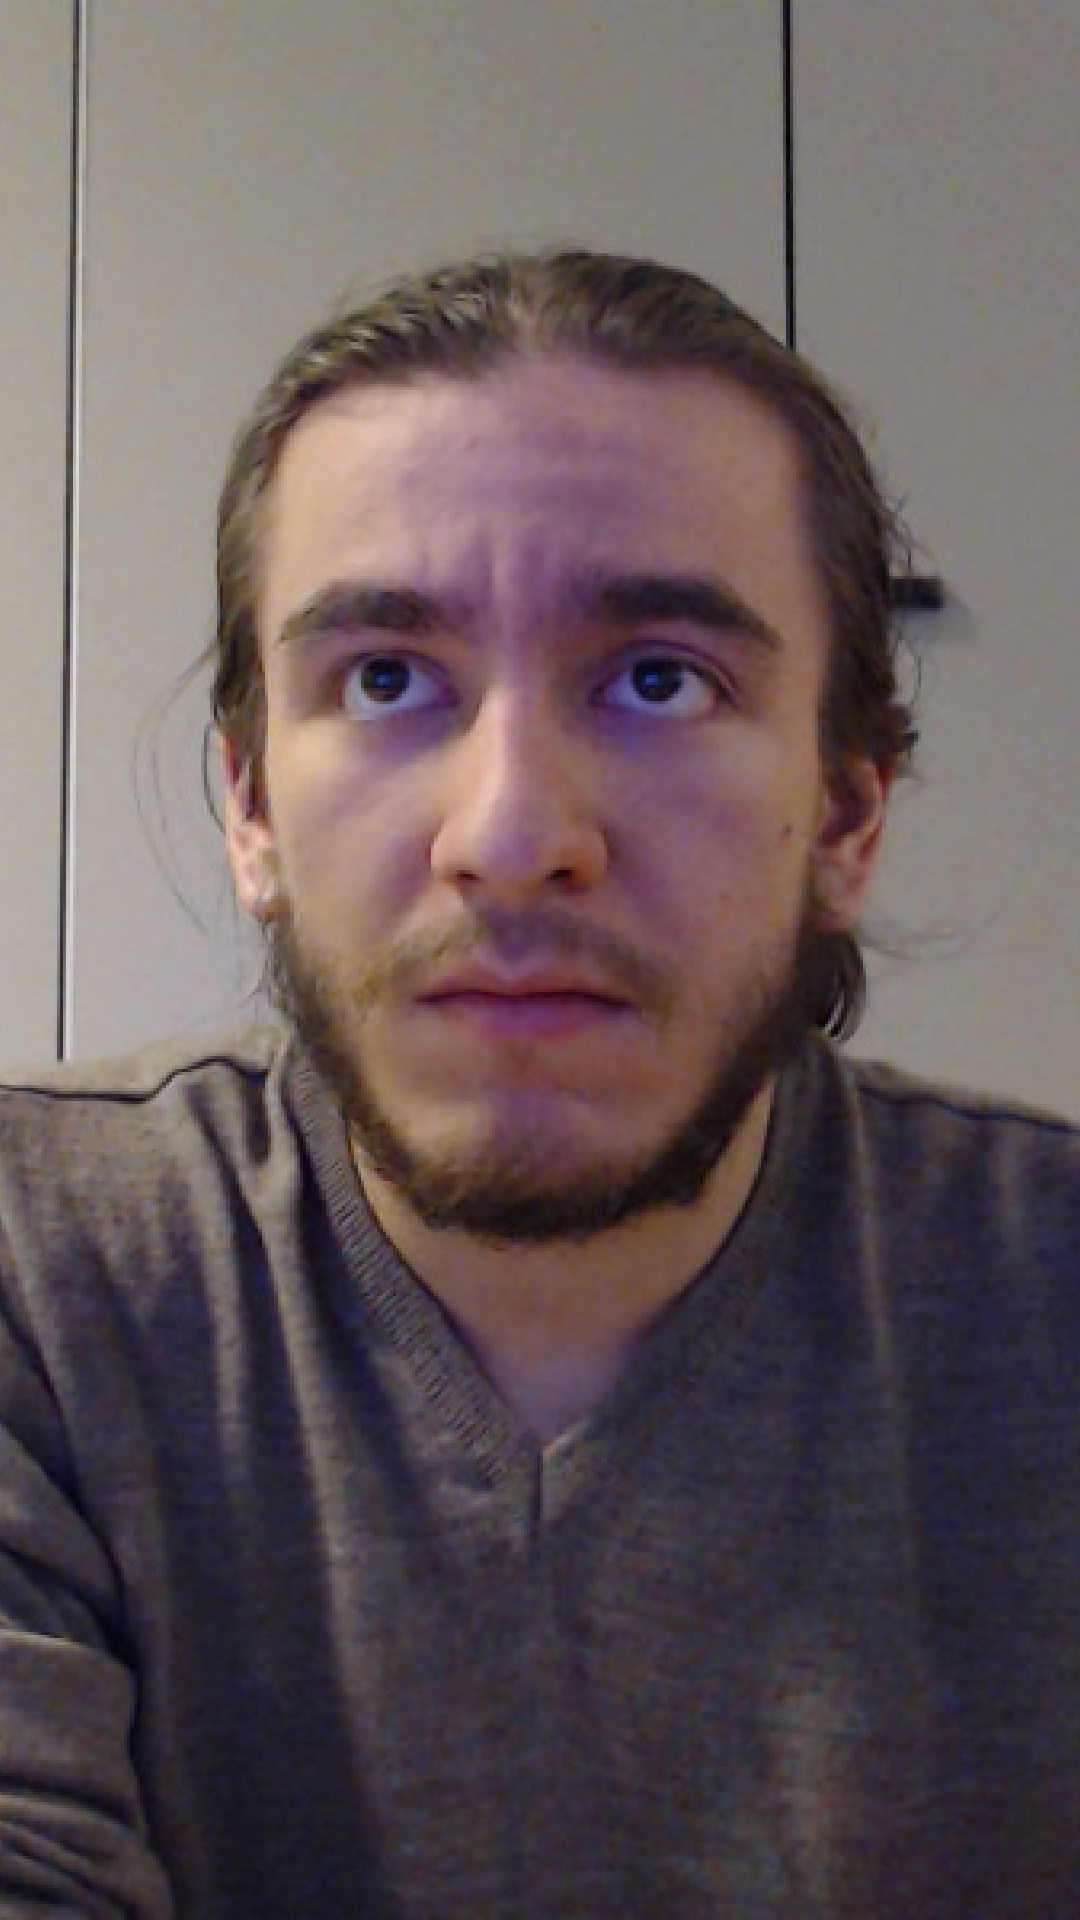
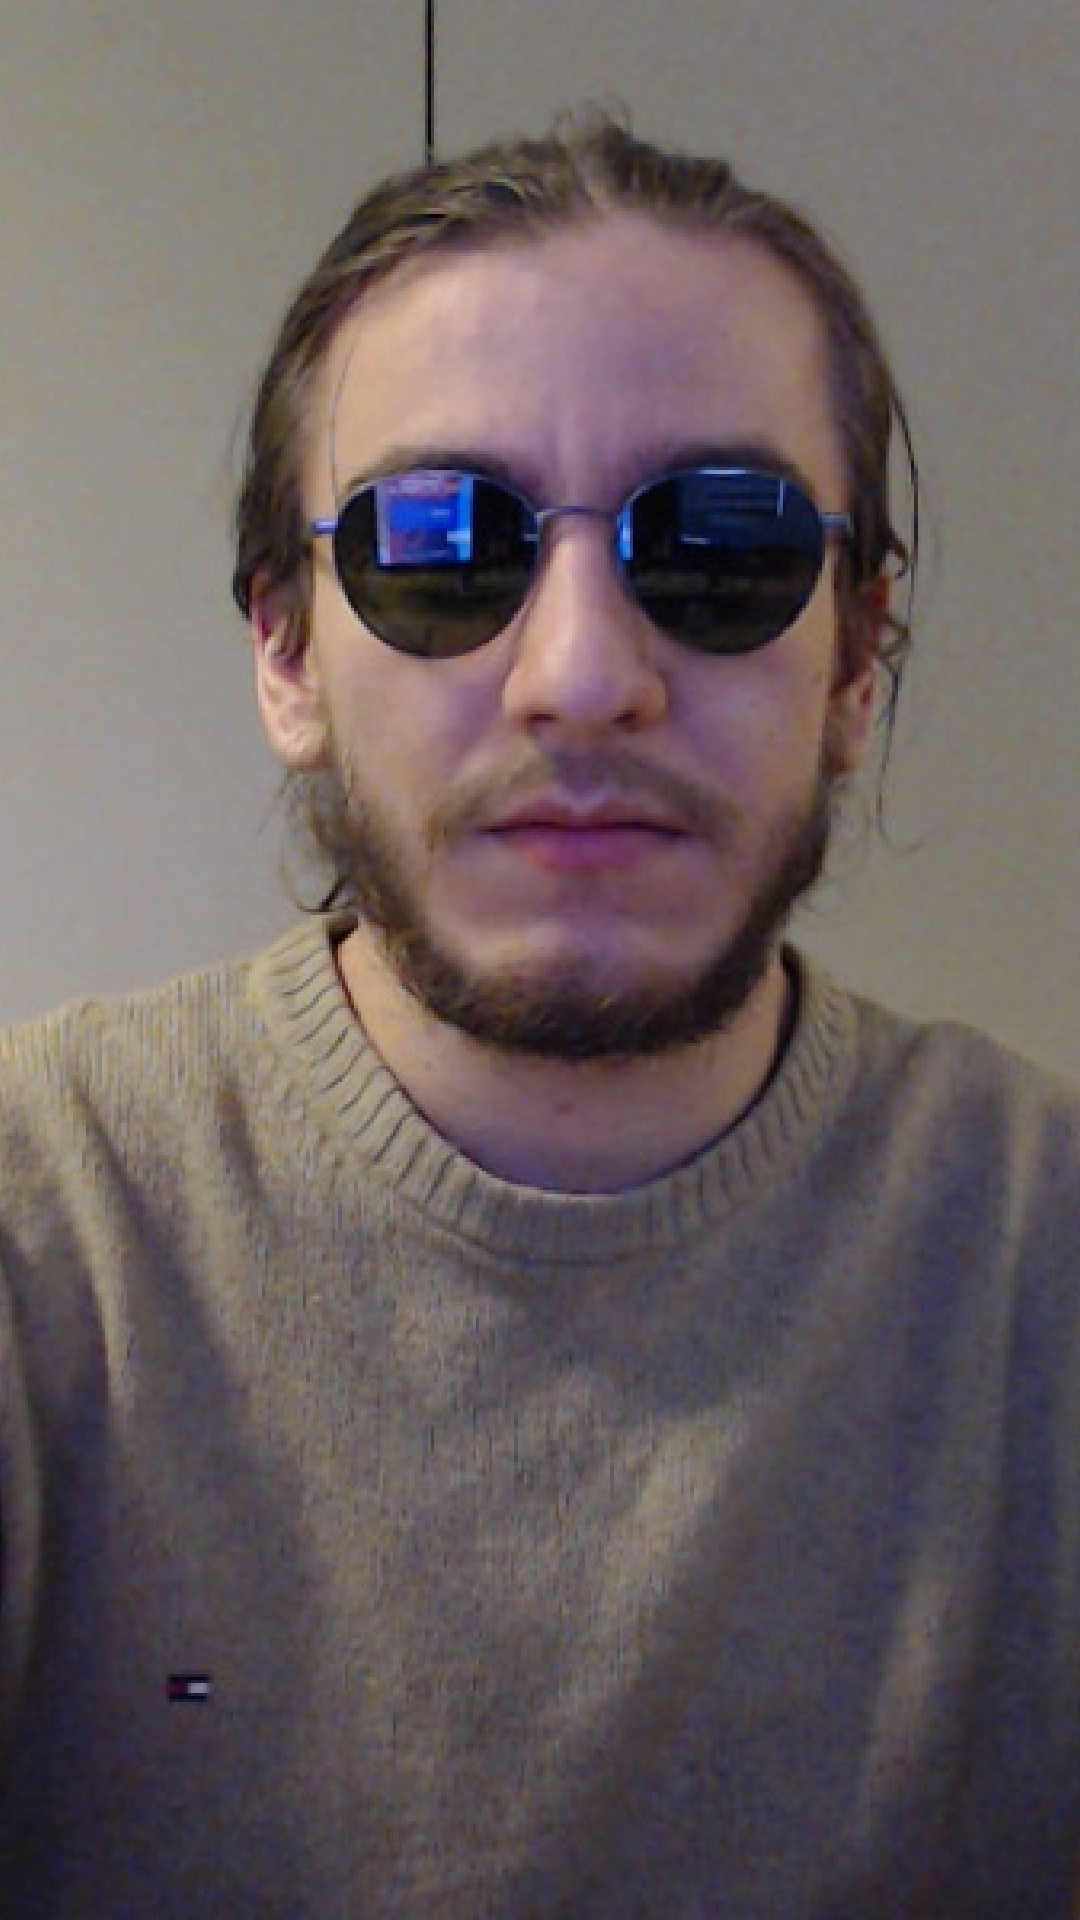
20/02/2019

diff --git a/glassesClassification.php b/glassesClassification.php
@@ -49,16 +49,24 @@
     }
     sleep(1);
     $outputfile = fopen($outputpath, "r") or die("Unable to open file!");
+    $string = fgets($outputfile);
     $perc = (float) fgets($outputfile);
-    if($perc < 0.7){
-        fclose($outputfile);
-        unlink($outputpath);
-        echo "miss";
+    if($string == "hit\r\n"){
+        if($perc < 0.7){
+            fclose($outputfile);
+            unlink($outputpath);
+            echo "miss";
+        }
+        else{
+            fclose($outputfile);
+            unlink($outputpath);
+            echo "hit";
+        }
     }
     else{
         fclose($outputfile);
         unlink($outputpath);
-        echo "hit";
+        echo "miss";
     }
 
 ?>
